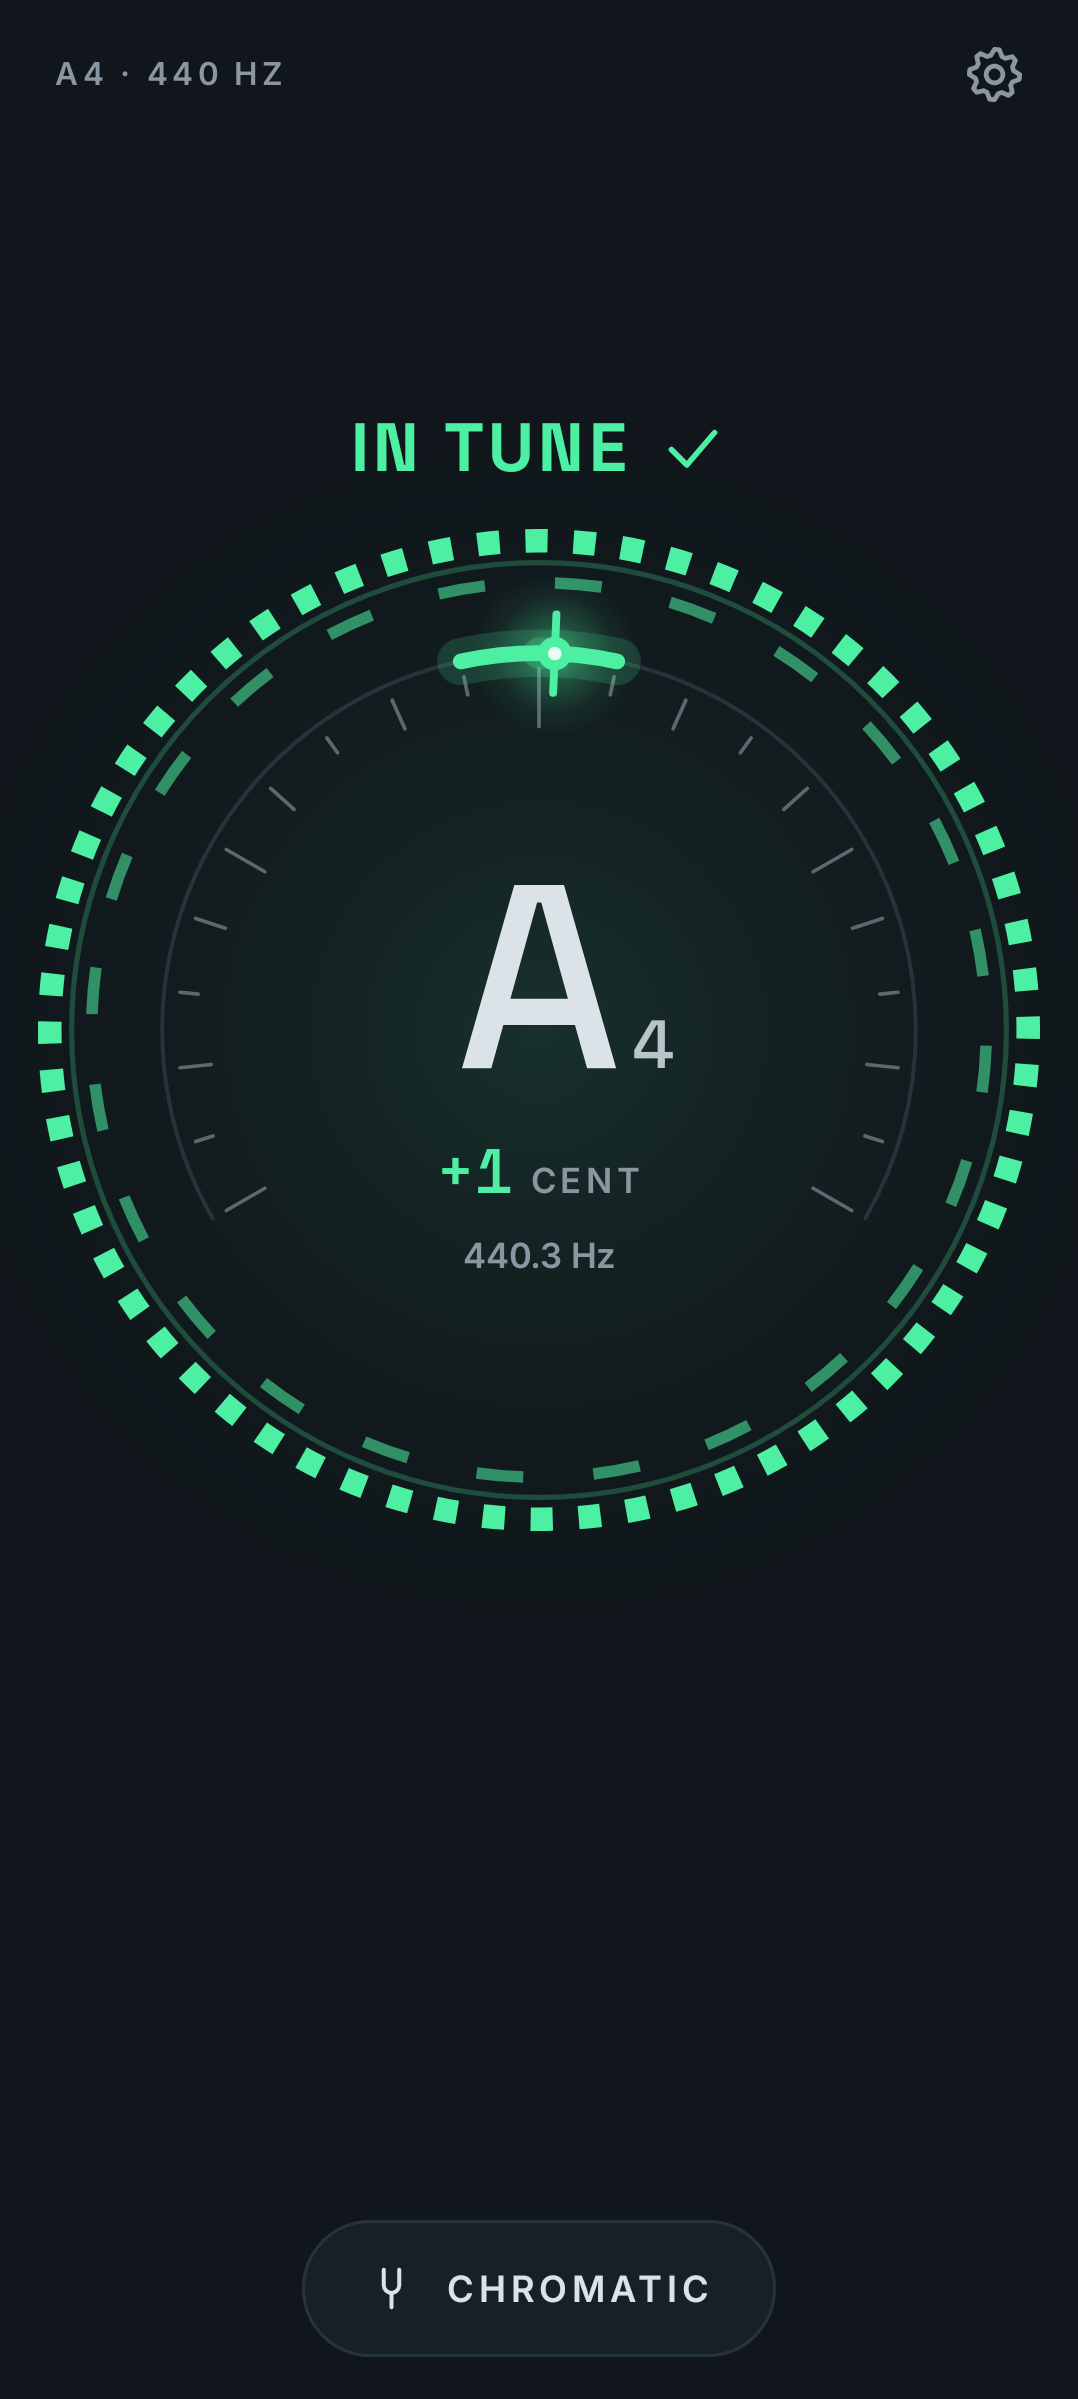
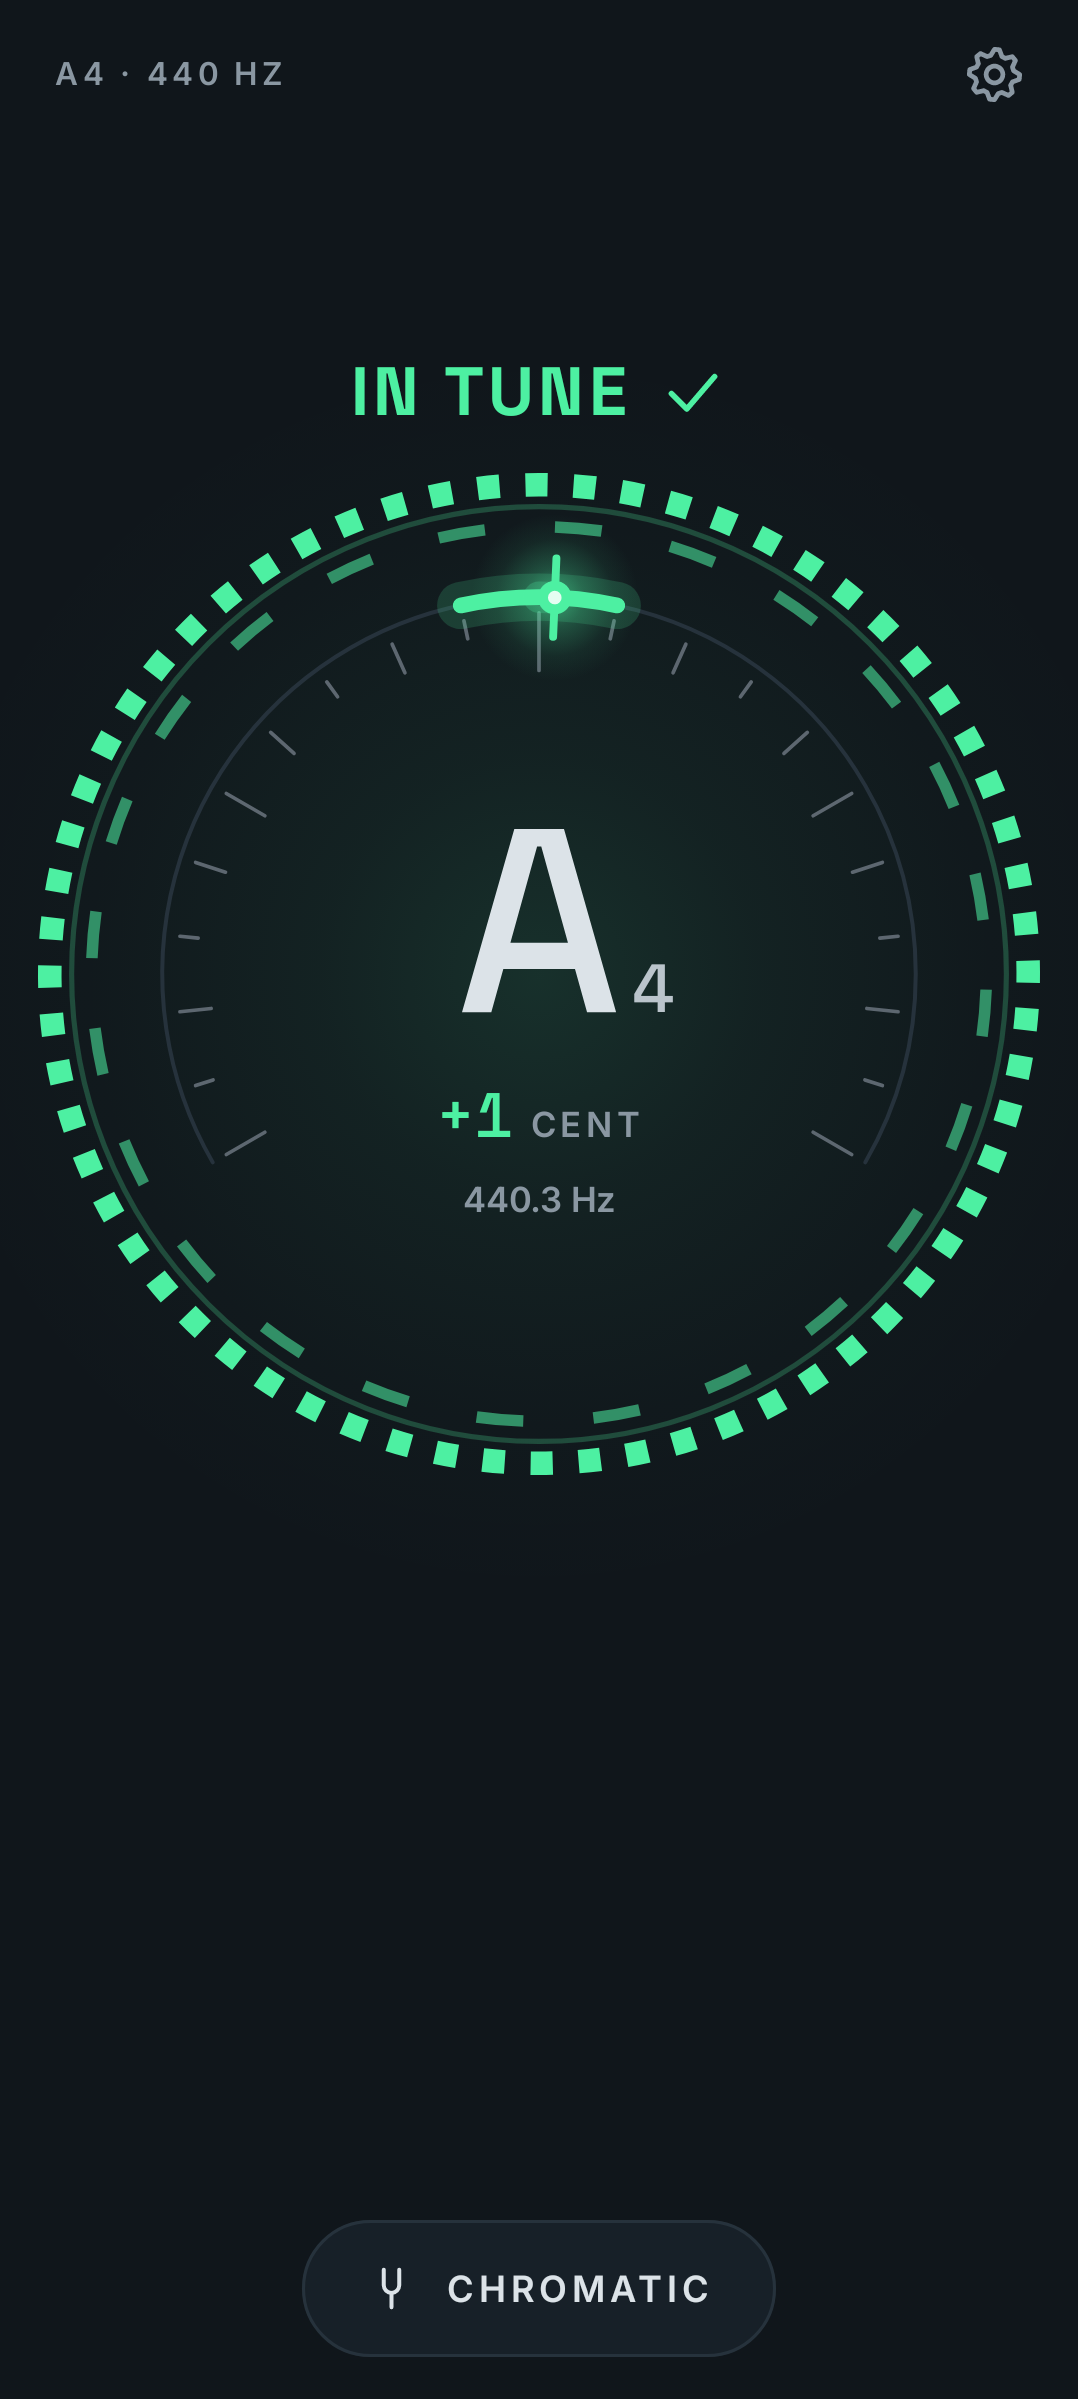
tunr: Ring in allen Modi an derselben Stelle

diff --git a/apps/tunr/src/main/kotlin/solutions/xapient/tunr/ui/TunerScreen.kt b/apps/tunr/src/main/kotlin/solutions/xapient/tunr/ui/TunerScreen.kt
@@ -116,8 +116,11 @@ fun TunerScreen(
         else -> null
     }
     val dial: @Composable (Modifier) -> Unit = { m -> TunerDial(state, settings.notation, hint, m) }
+    // Platz fuer die Saiten immer reserviert, damit Ring und Zustand beim Moduswechsel nicht springen
     val strings: @Composable () -> Unit = {
-        if (!settings.instrument.chromatic) StringRow(settings.instrument, settings.notation, state.coarse, locked, haptics, onLock)
+        Box(Modifier.height(StringSlot), contentAlignment = Alignment.TopCenter) {
+            if (!settings.instrument.chromatic) StringRow(settings.instrument, settings.notation, state.coarse, locked, haptics, onLock)
+        }
     }
     val top: @Composable (Modifier) -> Unit = { m ->
         Row(m.heightIn(min = 56.dp), verticalAlignment = Alignment.CenterVertically) {
@@ -166,7 +169,7 @@ fun TunerScreen(
                 ) {
                     StatusLine(state.coarse, Modifier.padding(horizontal = 16.dp))
                     dial(Modifier.weight(1f, fill = false).fillMaxWidth().aspectRatio(1f, matchHeightConstraintsFirst = true))
-                    if (!settings.instrument.chromatic) Spacer(Modifier.height(8.dp))
+                    Spacer(Modifier.height(8.dp))
                     strings()
                 }
                 Spacer(Modifier.height(20.dp))
@@ -175,6 +178,9 @@ fun TunerScreen(
         }
     }
 }
+
+// Hoehe der Saitenreihe: Kreis 52 + Abstand 5 + Punkt 5
+private val StringSlot = 62.dp
 
 // freier Platz 30 % oben, 70 % unten
 private object UpperBias : Arrangement.Vertical {
@@ -202,7 +208,8 @@ private fun StatusLine(coarse: Coarse, modifier: Modifier = Modifier) {
     val size = with(LocalDensity.current) { (26.dp * grow).toSp() }
     Row(
         // Ansage steckt schon im Hero (stateDescription)
-        modifier.clearAndSetSemantics { },
+        // feste Mindesthoehe, damit der Haken die Zeile nicht hoeher macht
+        modifier.heightIn(min = 28.dp * grow).clearAndSetSemantics { },
         verticalAlignment = Alignment.CenterVertically,
     ) {
         BasicText(

diff --git a/apps/tunr/src/test/kotlin/solutions/xapient/tunr/GestureTest.kt b/apps/tunr/src/test/kotlin/solutions/xapient/tunr/GestureTest.kt
@@ -29,6 +29,7 @@ import solutions.xapient.aapps.core.ui.AappsTheme
 import solutions.xapient.tunr.audio.Mic
 import solutions.xapient.tunr.domain.Frame
 import solutions.xapient.tunr.domain.Instrument
+import solutions.xapient.tunr.domain.Reading
 import solutions.xapient.tunr.domain.Settings
 import solutions.xapient.tunr.ui.InstrumentScreen
 import solutions.xapient.tunr.ui.MicUi
@@ -181,6 +182,24 @@ class GestureTest {
         rule.waitForIdle()
         assertEquals(2, mic.stops)
     }
+
+    // Ring sitzt in jedem Modus an derselben Stelle (hoch und quer, auch mit 200 % Schrift)
+    private fun assertDialStaysPut() {
+        fun dialBounds(instrument: Instrument, r: Reading): androidx.compose.ui.geometry.Rect {
+            val s = Settings(instrument = instrument)
+            val state = TunerState(s.a4, s.instrument).apply { show(r, 0f, 1f) }
+            show { TunerScreen(state, s, MicUi.ON, -1, null, {}, {}, {}, {}, animate = false) }
+            return rule.onNodeWithContentDescription("Tuner").fetchSemanticsNode().boundsInRoot
+        }
+        val inTune = Reading(active = true, heard = true, hz = hz(69, 1f), target = 69, cents = 1f, inTune = true, locks = 1)
+        val flat = Reading(active = true, heard = true, hz = hz(45, -23f), target = 45, cents = -23f, string = 1, locks = 1)
+        assertEquals(dialBounds(Instrument.CHROMATIC, inTune), dialBounds(Instrument.GUITAR, flat))
+    }
+
+    @Test fun dialStaysPut() = assertDialStaysPut()
+    @Test @Config(qualifiers = "+land") fun dialStaysPutLand() = assertDialStaysPut()
+    @Test @Config(fontScale = 2f) fun dialStaysPutFont200() = assertDialStaysPut()
+    @Test @Config(qualifiers = "+land", fontScale = 2f) fun dialStaysPutLandFont200() = assertDialStaysPut()
 
     private fun androidx.compose.ui.test.SemanticsNodeInteraction.assertExistsWithState(expected: String) {
         val node = fetchSemanticsNode()
